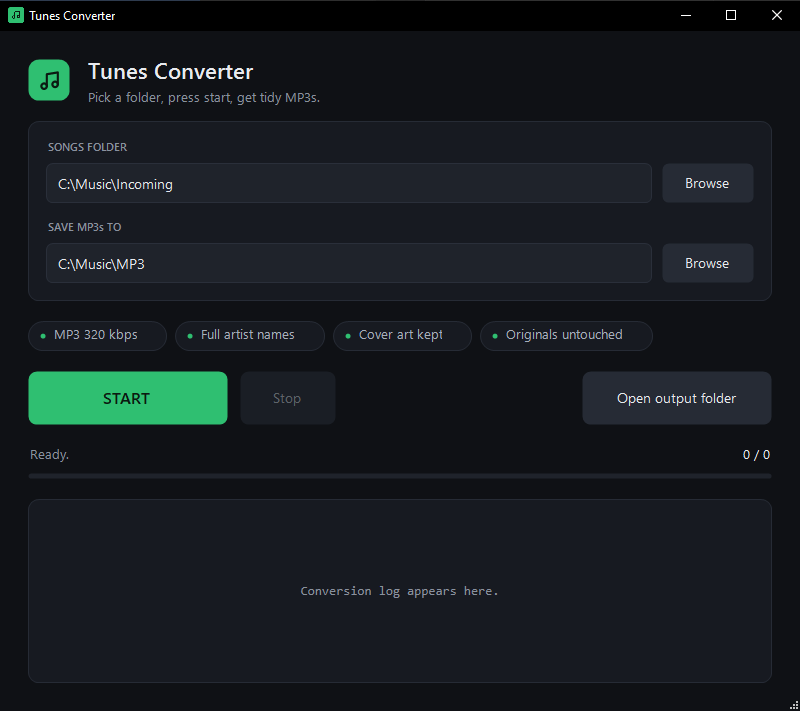
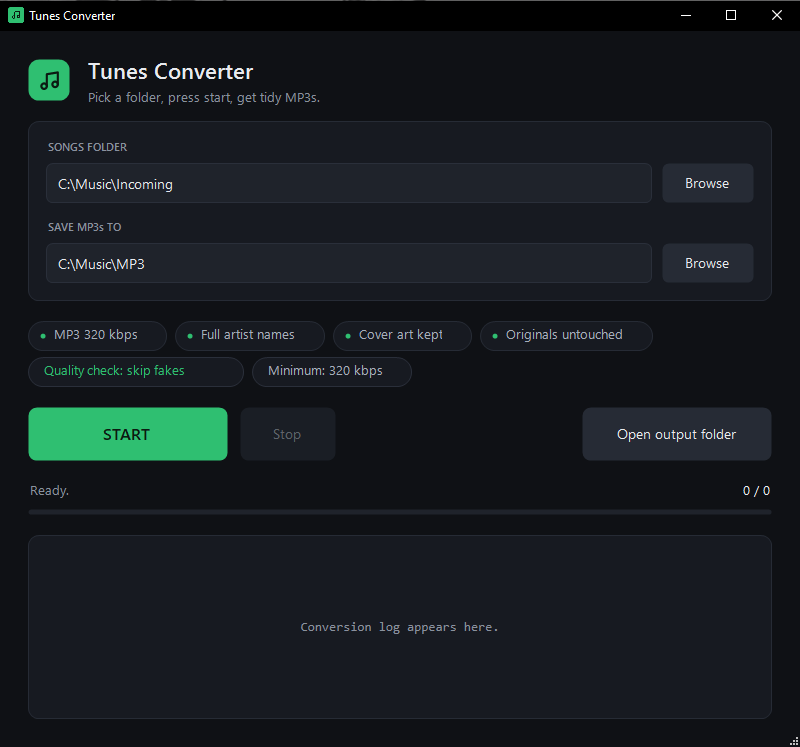
Add optional quality check: estimate true bitrate from the spectrum cutoff
Flags or skips files that claim 320k/lossless but whose audio is band-limited like
a lower-bitrate source. Off / warn / skip modes and a minimum, via UI chips or settings.json.

diff --git a/docs/HOWTO.md b/docs/HOWTO.md
@@ -11,6 +11,7 @@ portable Windows app: there is nothing to install, and deleting its folder remov
 [Get ffmpeg](#get-ffmpeg-one-time) |
 [Use it](#use-it) |
 [What it does to your files](#what-it-does-to-your-files) |
+[Quality check](#quality-check-spot-fake-files) |
 [Settings](#settings) |
 [Command line](#command-line) |
 [Troubleshooting](#troubleshooting) |
@@ -86,7 +87,8 @@ downloading, add `-DryRun`.
 6. **Open output folder** jumps to the results.
 
 Log colours: green **OK** = converted, amber **SKIP** = already there, red **FAIL** = problem with that file (the
-reason is shown; the rest of the batch continues).
+reason is shown; the rest of the batch continues). Amber **WARN**/**LOW** and red **FAKE** come from the
+[quality check](#quality-check-spot-fake-files).
 
 The app remembers your two folders for next time.
 
@@ -107,6 +109,51 @@ The app remembers your two folders for next time.
 - **Same name twice in one batch** (two different songs with identical artist and title) are numbered in order:
   `Name.mp3`, `Name (2).mp3`, and so on.
 
+## Quality check (spot fake files)
+
+A file can claim to be 320 kbps (or lossless) and still be a low-quality file in disguise, for example a 128 kbps
+MP3 that was converted to FLAC or re-encoded at 320. The tag says one thing; the audio says another.
+
+Tunes Converter can check this before converting. Real full-quality audio keeps going up to about 22 kHz. Lossy
+encoders chop off everything above a fixed frequency, and that cutoff gives away the real bitrate. The app measures
+where each file's audio actually stops (from a spectrum analysis of the file itself, not from its tags) and
+estimates the true quality:
+
+| Audio stops at | Looks like |
+| -------------- | ---------- |
+| about 20 kHz or higher | 320 kbps or better (including lossless) |
+| about 19.3 - 20 kHz | roughly 224 - 256 kbps |
+| about 18.3 - 19.3 kHz | roughly 192 kbps |
+| about 17.2 - 18.3 kHz | roughly 160 kbps |
+| below about 17.2 kHz | 128 kbps or lower |
+
+Two settings control it. Click the two chips under the folder box to change them (they are saved for next time):
+
+- **Quality check:** `off`, `warn` or `skip fakes`.
+  - `off`: no check (fastest).
+  - `warn` (default): every file is converted, but low-quality files are flagged in the log.
+  - `skip fakes`: files below your minimum are **not converted**. Nothing is deleted; your originals stay where they are.
+- **Minimum:** the lowest real quality you accept: 320, 256, 224, 192, 160 or 128 kbps. Use 320 for strict, or 256 for
+  hard-to-find tracks you are willing to accept at a slightly lower level.
+
+What you will see in the log:
+
+- `OK ... source ok: 320k or better (cutoff 22.1 kHz)`: passed.
+- `FAKE ... fakin' the funk: claims lossless but looks like ~128k or lower (cutoff 16.7 kHz)`: the file claims more
+  than its audio supports.
+- `LOW ... below your 320k minimum: looks like ~192k (cutoff 18.8 kHz)`: honest about being lossy, but below your minimum.
+- `WARN ...`: same findings in `warn` mode, where the file was still converted.
+
+Good to know:
+
+- It is a careful estimate, not a guarantee. The cutoff table was calibrated on LAME encodes of real music. Other
+  encoders (for example AAC) cut off at slightly different frequencies, 224 and 256 kbps cannot be told apart, and a
+  genuinely dull or band-limited recording (some old or heavily filtered masters) can look low quality.
+- Long tracks are checked on a 3-minute slice from the middle. Files below 44.1 kHz sample rate are not checked.
+- A lossless file that stops around 20 kHz is passed (it meets a 320 minimum) but gets a note that it was probably
+  made from a lossy source.
+- Checking adds a few seconds per track.
+
 ## Settings
 
 Your folders are saved in `settings.json`, created next to the app the first time you press START. You can also
@@ -117,7 +164,9 @@ create or edit it by hand to change more (copy `settings.example.json` to `setti
   "In": "C:\\Music\\Incoming",
   "Out": "C:\\Music\\MP3",
   "Bitrate": 320,
-  "SampleRate": 44100
+  "SampleRate": 44100,
+  "QualityCheck": "warn",
+  "MinKbps": 320
 }
 ```
 
@@ -127,6 +176,8 @@ create or edit it by hand to change more (copy `settings.example.json` to `setti
 | `Out`        | `Desktop\converted` | any folder, different from `In`          |
 | `Bitrate`    | `320`               | `128`, `160`, `192`, `224`, `256`, `320` |
 | `SampleRate` | `44100`             | `44100`, `48000`                         |
+| `QualityCheck` | `warn`            | `off`, `warn`, `skip`                    |
+| `MinKbps`    | `320`               | `128`, `160`, `192`, `224`, `256`, `320` |
 
 Use double backslashes (`\\`) in paths inside the JSON file. Invalid values fall back to the defaults. Close and
 reopen the app after editing. Deleting `settings.json` resets everything.

diff --git a/README.md b/README.md
@@ -8,6 +8,9 @@ Drop a folder of music in, press **START**, get tidy MP3s out. A small portable 
 - **Correct names:** files become `Artist - Title.mp3`. Tracks with several artists in separate tags
   (e.g. `ARTIST=Pola & Bryson` + `ARTIST=Cimone`) become `Pola & Bryson, Cimone - Title.mp3` instead of
   keeping only the last artist.
+- **Fake-quality check:** measures where each file's audio really stops (not what its tag claims) to estimate the
+  true bitrate, and can flag or skip files below a minimum you choose (for example a 128k MP3 passed off as 320 or
+  lossless). Off, warn or skip; see [docs/HOWTO.md](docs/HOWTO.md#quality-check-spot-fake-files).
 - **Tags and cover art kept**, written as ID3v2.3 (works with DJ software and car stereos).
 - **Originals are never touched.** Output goes to a separate folder; existing files are skipped, so reruns are safe.
 - Reads FLAC, WAV, AIFF, M4A, OGG, Opus, WMA and MP3. MP3 sources are copied as they are (no re-encoding,
@@ -39,6 +42,8 @@ Folders are remembered in `settings.json` next to the app. Create or edit it by 
 | `Out`        | `Desktop\converted`  | any folder (not the same as `In`) |
 | `Bitrate`    | `320`         | `128`, `160`, `192`, `224`, `256`, `320` |
 | `SampleRate` | `44100`       | `44100`, `48000`                        |
+| `QualityCheck` | `warn`      | `off`, `warn`, `skip`                   |
+| `MinKbps`    | `320`         | `128`, `160`, `192`, `224`, `256`, `320` |
 
 Invalid values fall back to the defaults. Close and reopen the app after editing.
 
